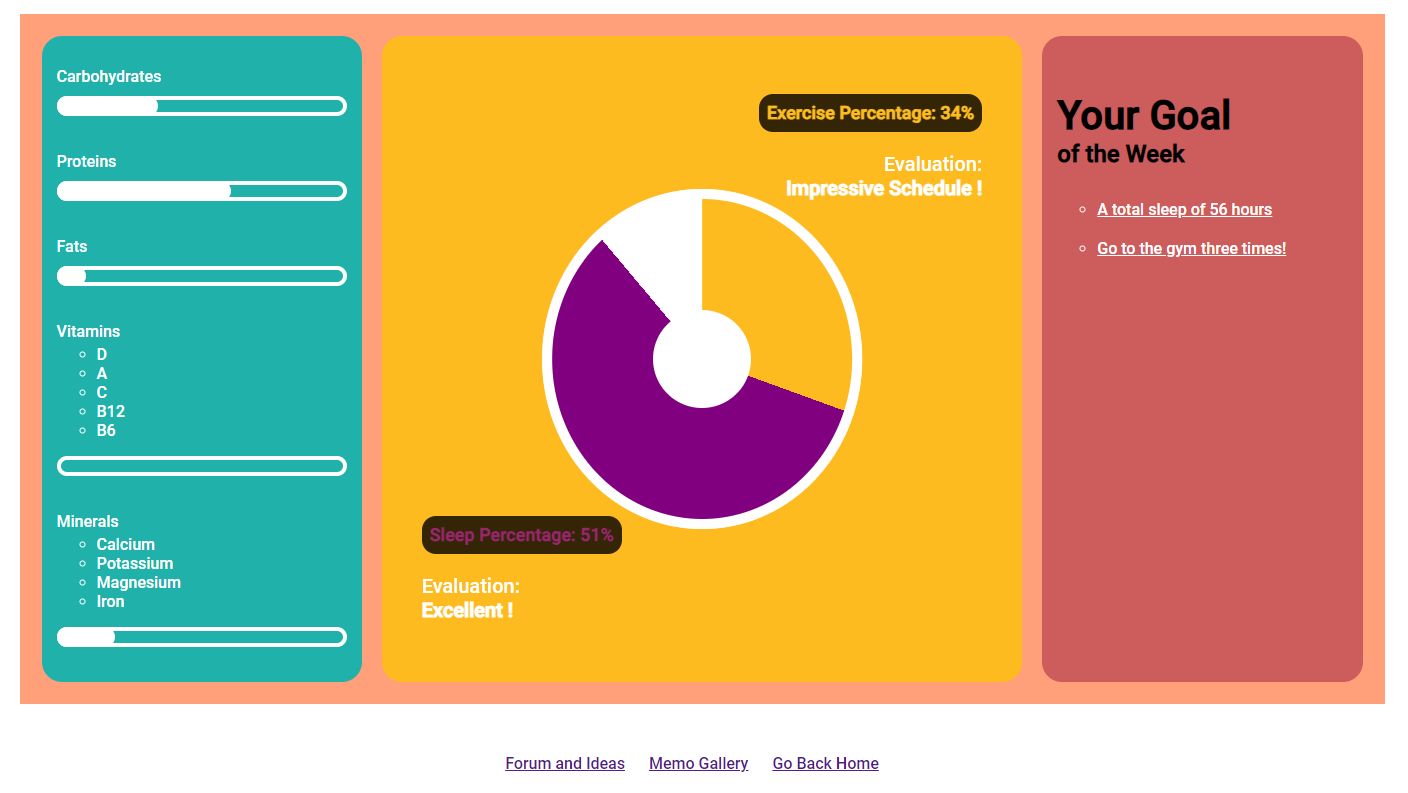
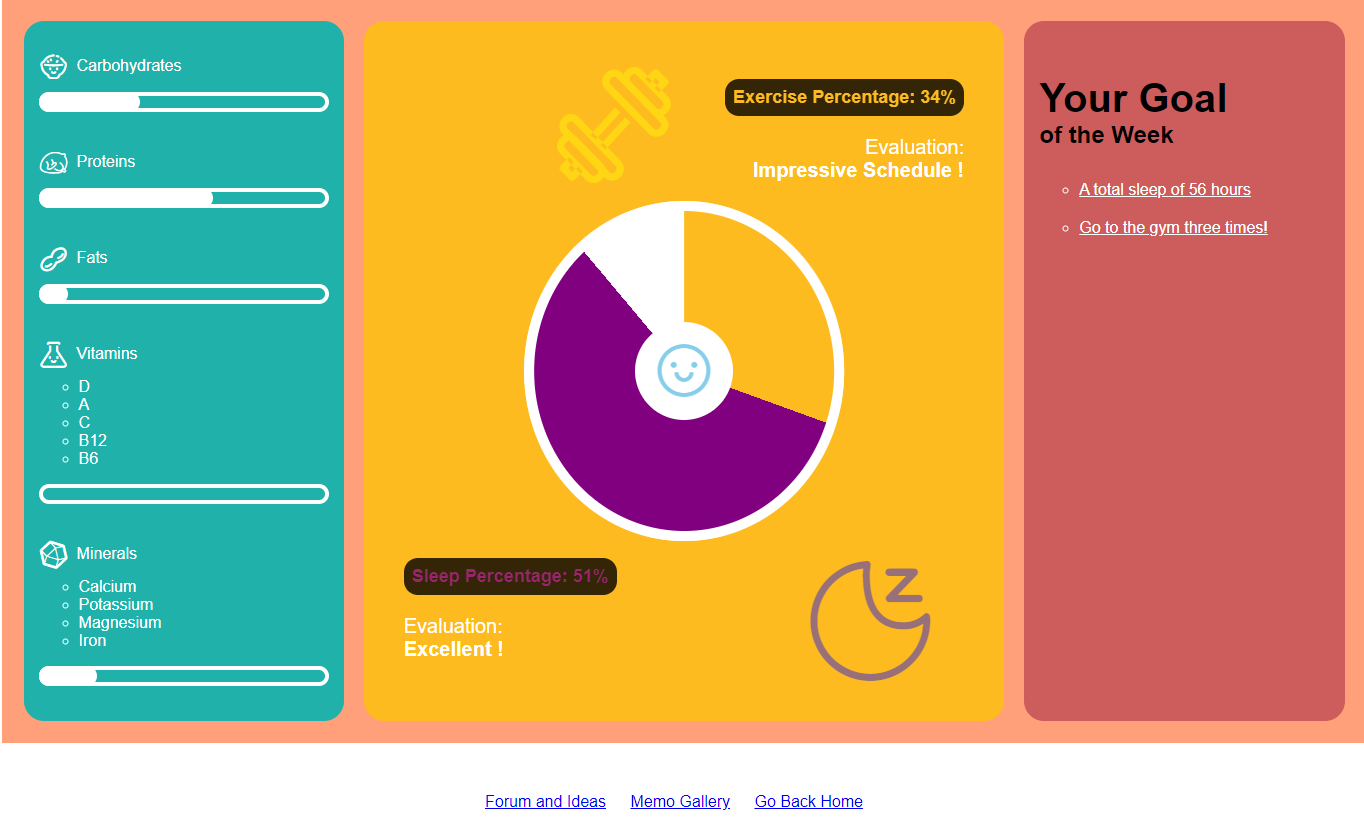
Update

diff --git a/concept-of-app/health.html b/concept-of-app/health.html
@@ -5,6 +5,12 @@
     <meta name="viewport" content="width=device-width, initial-scale=1.0">
     <title>Health Clock</title>
     <style>
+        @font-face {
+        font-family: 'iconfont';  /* Project id 4217516 */
+        src: url('//at.alicdn.com/t/c/font_4217516_7mw7dhdrnp3.woff2?t=1692525669826') format('woff2'),
+            url('//at.alicdn.com/t/c/font_4217516_7mw7dhdrnp3.woff?t=1692525669826') format('woff'),
+            url('//at.alicdn.com/t/c/font_4217516_7mw7dhdrnp3.ttf?t=1692525669826') format('truetype');
+        }
         @import url('https://fonts.googleapis.com/css2?family=Roboto:wght@500&display=swap');
         *{box-sizing: border-box;font-family: 'Roboto', sans-serif;}
         #box {width: 1365px;
@@ -102,23 +108,35 @@
 
     <div id="nutrition">
         <div class="nutrition-comp">
-            <p>Carbohydrates</p>
+            <p><span style="font-family: 'iconfont';
+            font-size: 30px;
+            margin-right: 8px;
+            vertical-align: middle;">&#xe66e;</span>Carbohydrates</p>
             <div class="nutrition-bar"></div>
             <div class="nutrition-bar-filled bar-thirtythree"></div>
         </div>
         <div class="nutrition-comp">
-            <p>Proteins</p>
+            <p><span style="font-family: 'iconfont';
+            font-size: 30px;
+            margin-right: 8px;
+            vertical-align: middle;">&#xe612;</span>Proteins</p>
             <div class="nutrition-bar"></div>
             <div class="nutrition-bar-filled bar-sixty"></div>
         </div>
         <div class="nutrition-comp">
-            <p>Fats</p>
+            <p><span style="font-family: 'iconfont';
+            font-size: 30px;
+            margin-right: 8px;
+            vertical-align: middle;">&#xe8fd;</span>Fats</p>
             <div class="nutrition-bar"></div>
             <div class="nutrition-bar-filled bar-ten"></div>
         </div>
         <div class="nutrition-comp">
-            <p style="margin-bottom: 0;">Vitamins</p>
-            <ul style="margin-top: 4px;color: white;">
+            <p style="margin-bottom: 0;"><span style="font-family: 'iconfont';
+            font-size: 30px;
+            margin-right: 8px;
+            vertical-align: middle;">&#xe69e;</span>Vitamins</p>
+            <ul style="margin-top: 8px;color: white;">
                 <li>D</li>
                 <li>A</li>
                 <li>C</li>
@@ -128,8 +146,11 @@
             <div class="nutrition-bar"></div>
         </div>
         <div class="nutrition-comp">
-            <p style="margin-bottom: 0;">Minerals</p>
-            <ul style="margin-top: 4px;color: white;">
+            <p style="margin-bottom: 0;"><span style="font-family: 'iconfont';
+            font-size: 30px;
+            margin-right: 8px;
+            vertical-align: middle;">&#xe711;</span>Minerals</p>
+            <ul style="margin-top: 8px;color: white;">
                 <li>Calcium</li>
                 <li>Potassium</li>
                 <li>Magnesium</li>
@@ -138,13 +159,38 @@
             <div class="nutrition-bar"></div>
             <div class="nutrition-bar-filled bar-twenty"></div>
         </div>
+
     </div>
 
-    <div id="clock">
+    <div id="clock" style="position: relative;">
+        <div class="bg-icons" style="
+        position: absolute;
+        font-family: 'iconfont';
+        top: 44px;
+        left: 190px;
+        font-size: 120px;
+        color: yellow;
+        opacity: 0.4;">&#xe63f;</div>
+        <div class="bg-icons" style="
+        position: absolute;
+        font-family: 'iconfont';
+        bottom: 40px;
+        right: 74px;
+        font-size: 120px;
+        color: blue;
+        opacity: 0.4;">&#xe696;</div>
         
         <pie id="clock-sector"></pie>
         <pie id="clock-purple"></pie>
-        <div id="smile-center"></div>
+        <div id="smile-center">
+            <p class="smile" style="
+            font-family: 'iconfont';
+            text-align: center;
+            line-height: 98px;
+            margin: 0;
+            font-size: 60px;
+            color: skyblue;">&#xe643;</p>
+        </div>
 
         <div id="exercise">
             <p style="    font-size: 18px;
